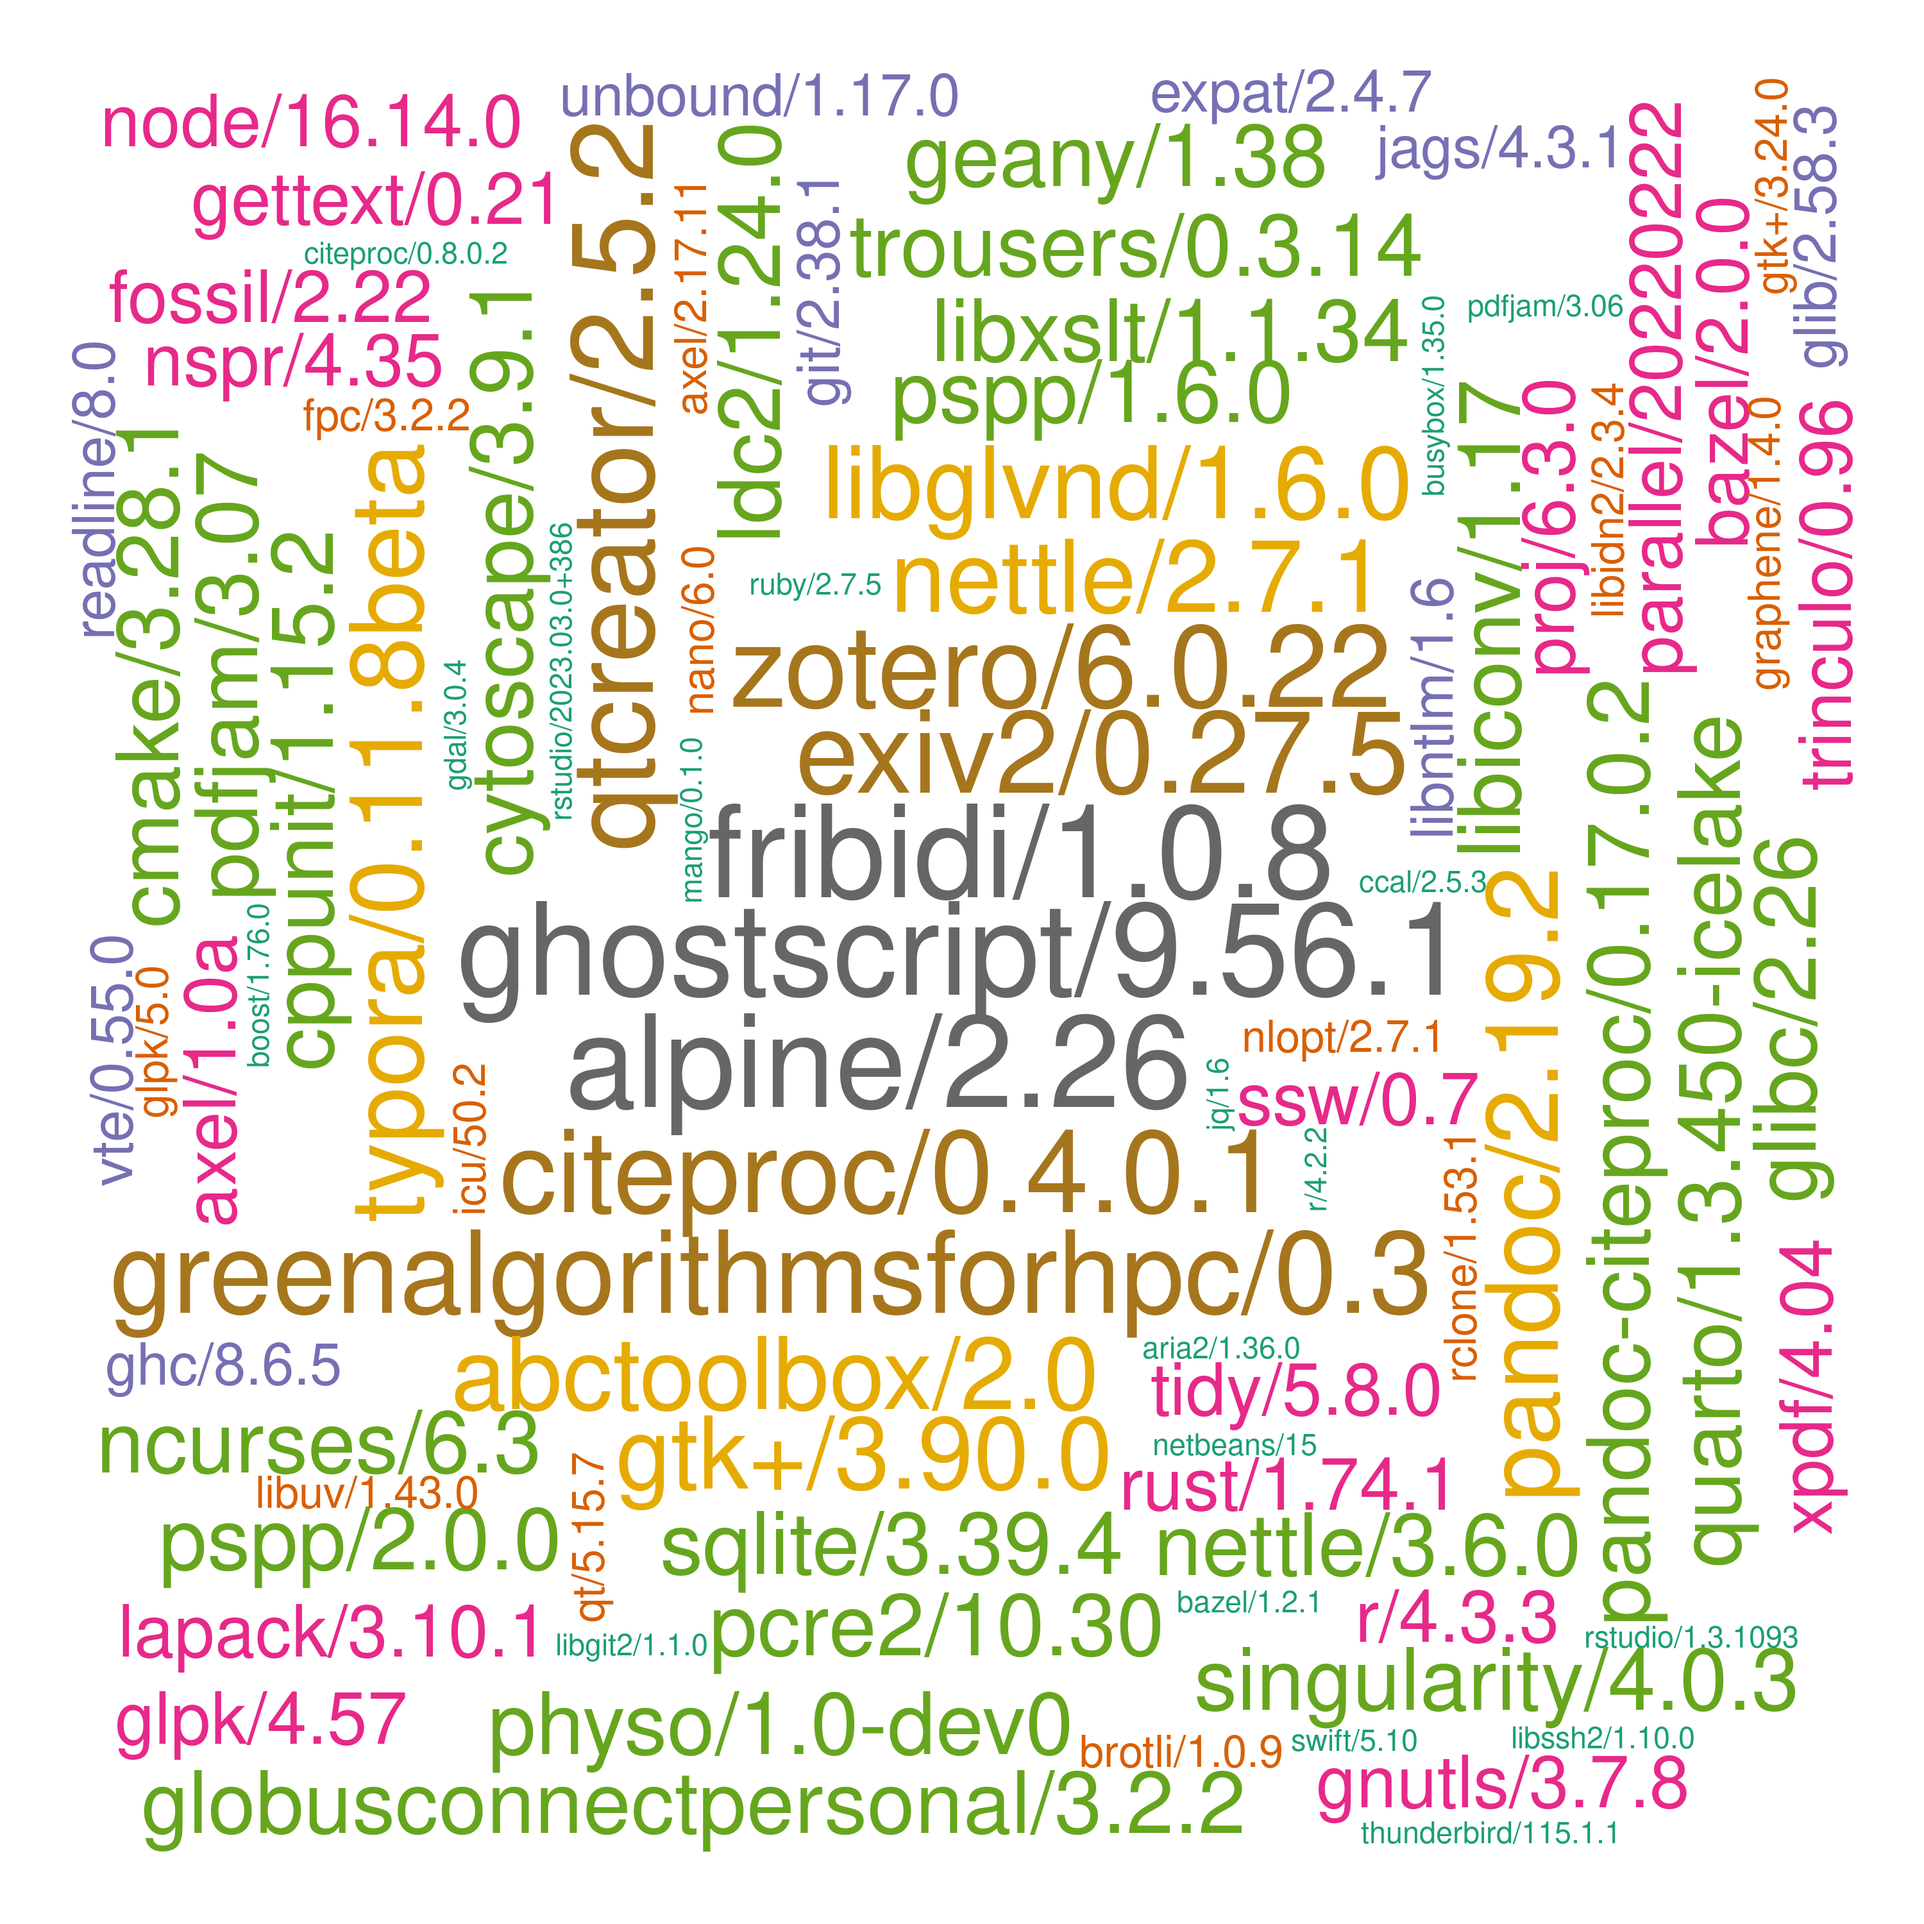
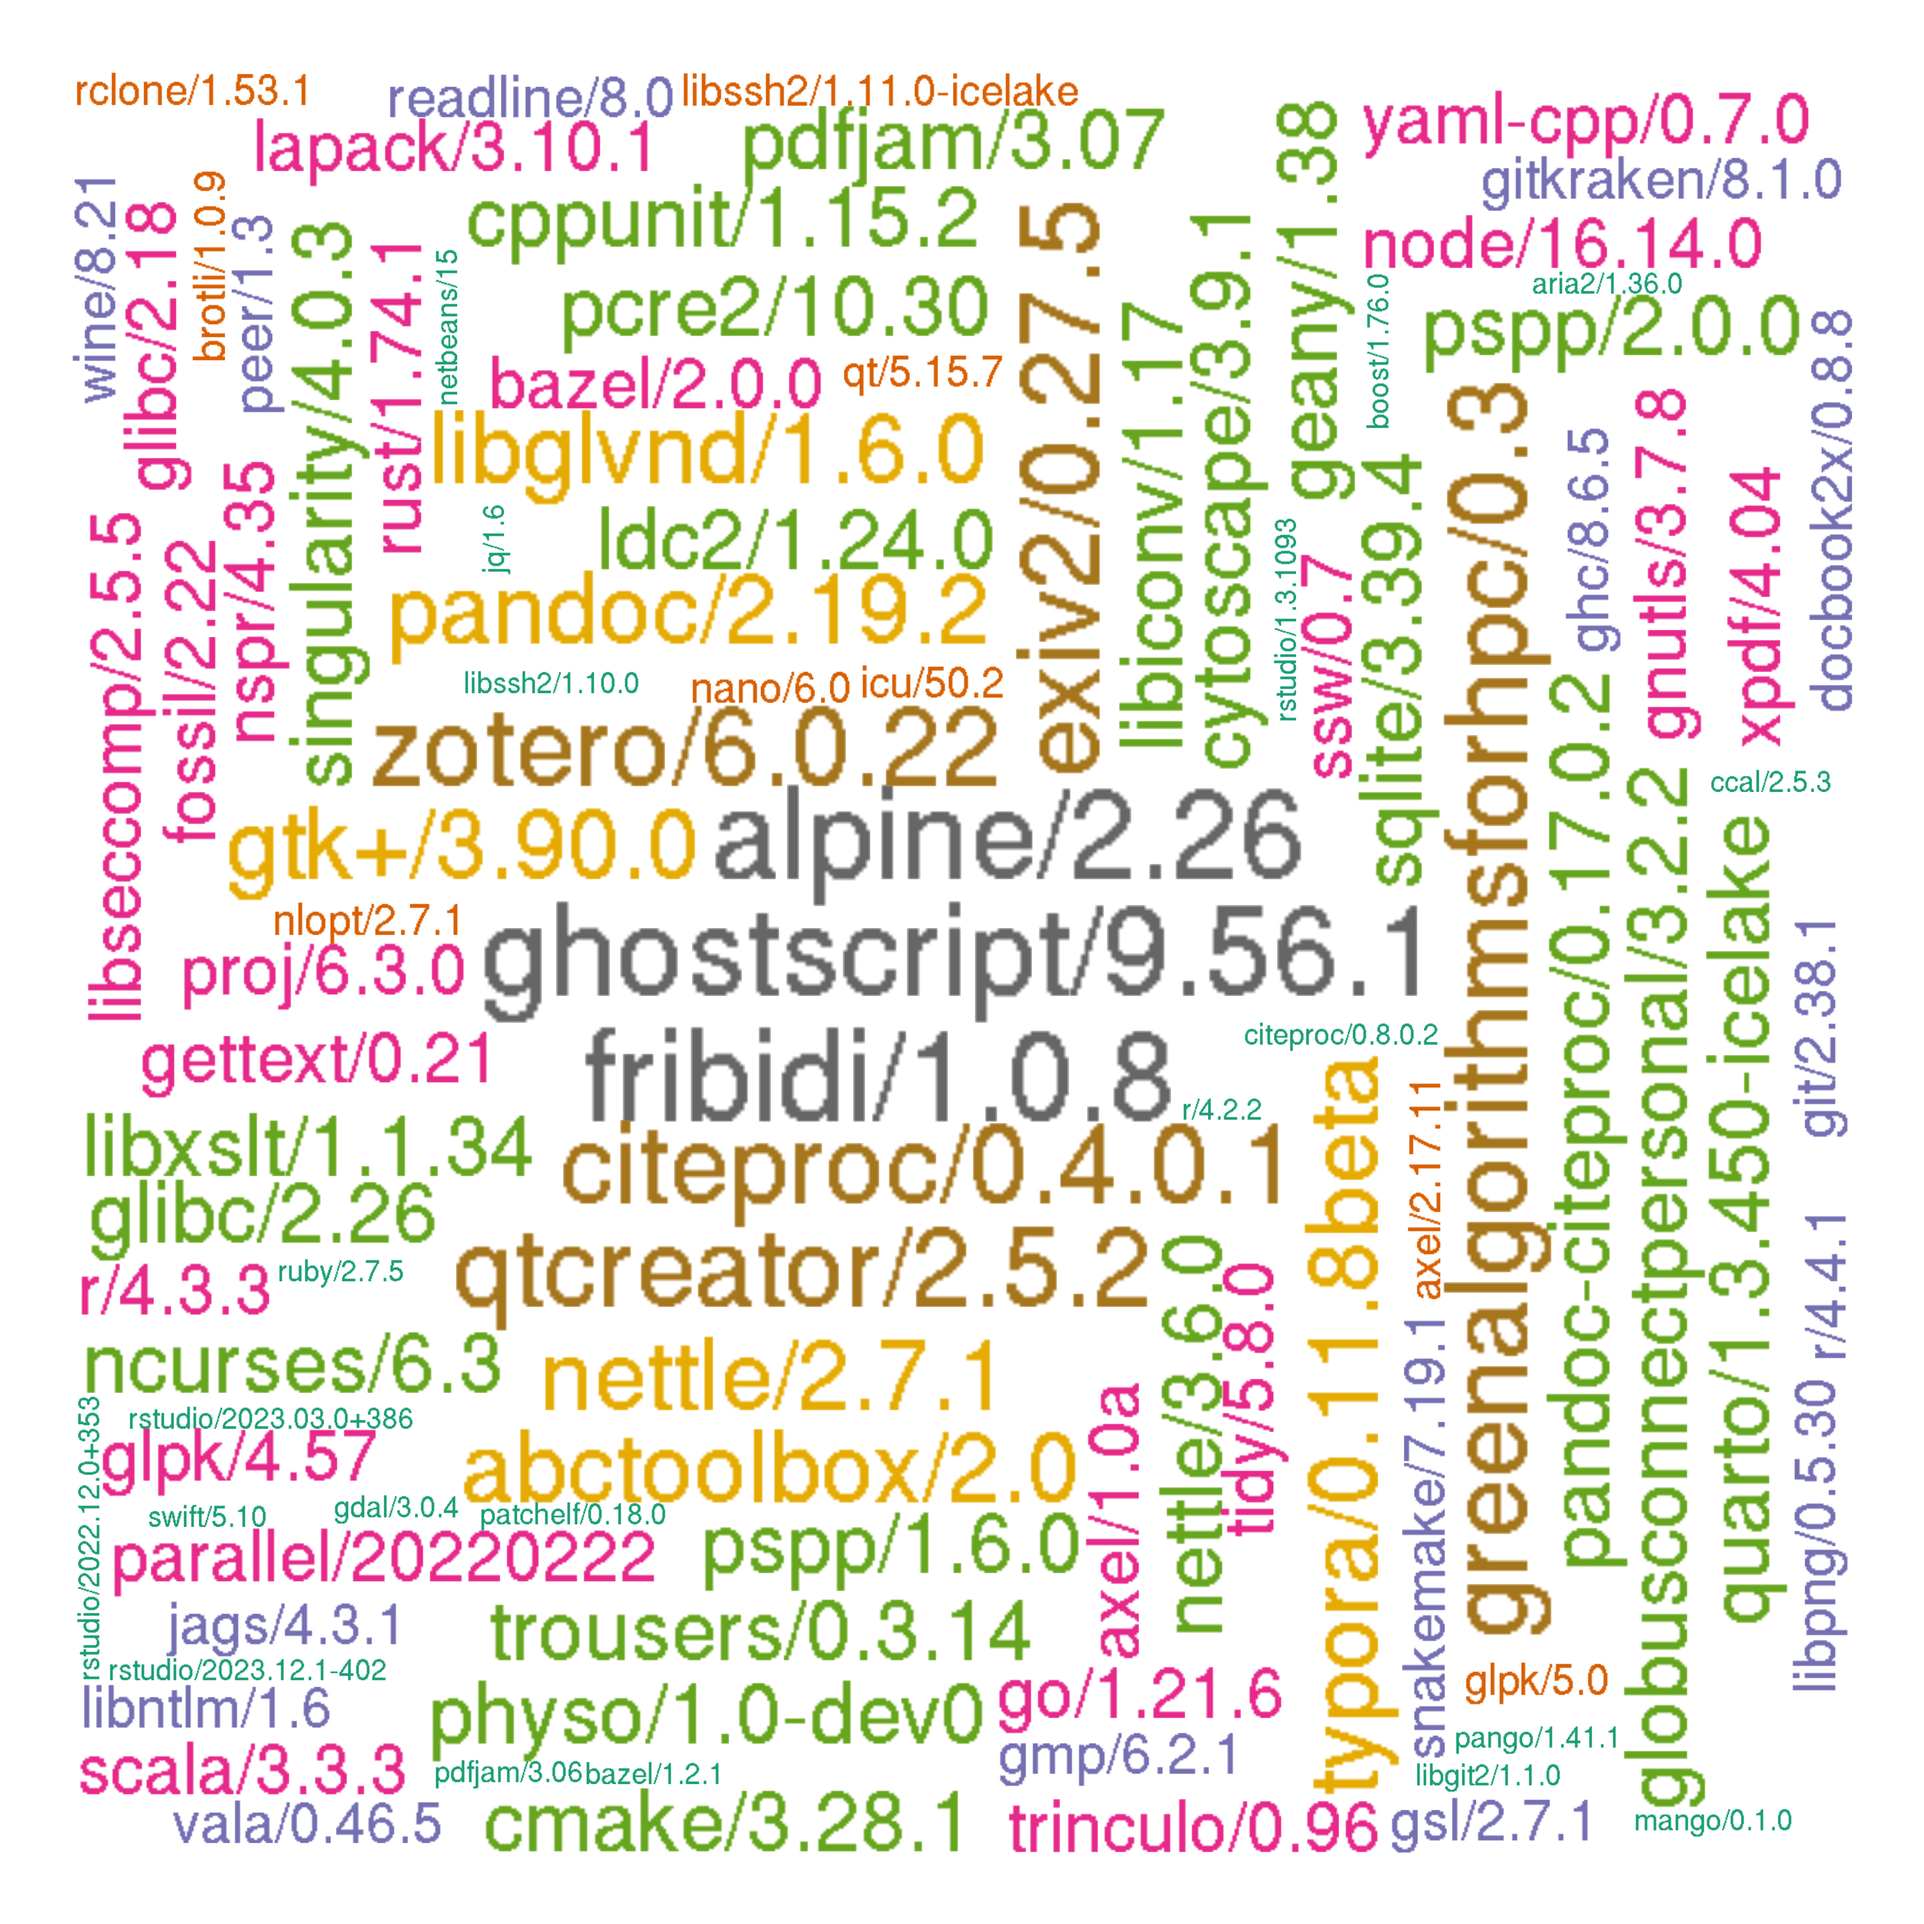
./

diff --git a/systems/ceuadmin.md b/systems/ceuadmin.md
@@ -8,7 +8,7 @@ The CEU software repository is here, **/usr/local/Cluster-Apps/ceuadmin/**.
 
 ![ceuadmin](ceuadmin.png)
 
-noting that the importance of software is purely random according to $$Poisson(N,\lambda)$$ where $$N=238$$, $$\lambda=3$$.
+noting that the importance of software is purely random according to $$Poisson(N,\lambda)$$ where $$N=239$$, $$\lambda=3$$.
 
 ## Entries
 
@@ -48,33 +48,33 @@ The current list is as follows,
 [121] "libxml2"               "libxslt"               "locuszoom"             "LVM2"
 [125] "MAGENTA"               "magma"                 "Mango"                 "Mega2"
 [129] "metal"                 "MetaMorpheus"          "MONSTER"               "MORGAN"
-[133] "MR-MEGA"               "MsCAVIAR"              "nano"                  "ncbi-vdb"
-[137] "ncurses"               "netbeans"              "nettle"                "nextflow"
-[141] "nlopt"                 "NLopt"                 "node"                  "nspr"
-[145] "oniguruma"             "openjdk"               "OpenMS"                "openssh"
-[149] "openssl"               "osca"                  "p7zip-zstd"            "PAINTOR"
-[153] "pandoc"                "pandoc-citeproc"       "pango"                 "parallel"
-[157] "Pascal"                "patchelf"              "pcre2"                 "pdf2djvu"
-[161] "pdfjam"                "peer"                  "pgsc_calc"             "phenoscanner"
-[165] "PhySO"                 "picard"                "plink"                 "plink-bgi"
-[169] "plinkseq"              "PoGo"                  "polyphen"              "poppler"
-[173] "popt"                  "proj"                  "PRSice"                "pspp"
-[177] "pulsar"                "PWCoCo"                "pwiz"                  "qctool"
-[181] "qpdf"                  "qt"                    "qtcreator"             "QTLtools"
-[185] "quarto"                "quicktest"             "R"                     "raremetal"
-[189] "rclone"                "readline"              "regenie"               "regtools"
-[193] "RHHsoftware"           "rst2pdf"               "rstudio"               "rtmpdump"
-[197] "ruby"                  "rust"                  "samtools"              "Scala"
-[201] "seqkit"                "shapeit"               "singularity"           "SMR"
-[205] "snakemake"             "SNP2HLA"               "snptest"               "spread-sheet-widget"
-[209] "spyder"                "sqlite"                "sra-tools"             "ssw"
-[213] "STAR"                  "stata"                 "SurvivalAnalysis"      "SurvivalKit"
-[217] "Swift"                 "tabix"                 "tatami"                "thunderbird"
-[221] "tidy"                  "trinculo"              "trousers"              "Typora"
-[225] "unbound"               "vala"                  "VarScan"               "vcftools"
-[229] "VEGAS2"                "verifyBamID"           "VSCode"                "VSCodium"
-[233] "vte"                   "wine"                  "xpdf"                  "yaml-cpp"
-[237] "Zotero"                "zstd"
+[133] "MR-MEGA"               "MsCAVIAR"              "msms"                  "nano"
+[137] "ncbi-vdb"              "ncurses"               "netbeans"              "nettle"
+[141] "nextflow"              "nlopt"                 "NLopt"                 "node"
+[145] "nspr"                  "oniguruma"             "openjdk"               "OpenMS"
+[149] "openssh"               "openssl"               "osca"                  "p7zip-zstd"
+[153] "PAINTOR"               "pandoc"                "pandoc-citeproc"       "pango"
+[157] "parallel"              "Pascal"                "patchelf"              "pcre2"
+[161] "pdf2djvu"              "pdfjam"                "peer"                  "pgsc_calc"
+[165] "phenoscanner"          "PhySO"                 "picard"                "plink"
+[169] "plink-bgi"             "plinkseq"              "PoGo"                  "polyphen"
+[173] "poppler"               "popt"                  "proj"                  "PRSice"
+[177] "pspp"                  "pulsar"                "PWCoCo"                "pwiz"
+[181] "qctool"                "qpdf"                  "qt"                    "qtcreator"
+[185] "QTLtools"              "quarto"                "quicktest"             "R"
+[189] "raremetal"             "rclone"                "readline"              "regenie"
+[193] "regtools"              "RHHsoftware"           "rst2pdf"               "rstudio"
+[197] "rtmpdump"              "ruby"                  "rust"                  "samtools"
+[201] "Scala"                 "seqkit"                "shapeit"               "singularity"
+[205] "SMR"                   "snakemake"             "SNP2HLA"               "snptest"
+[209] "spread-sheet-widget"   "spyder"                "sqlite"                "sra-tools"
+[213] "ssw"                   "STAR"                  "stata"                 "SurvivalAnalysis"
+[217] "SurvivalKit"           "Swift"                 "tabix"                 "tatami"
+[221] "thunderbird"           "tidy"                  "trinculo"              "trousers"
+[225] "Typora"                "unbound"               "vala"                  "VarScan"
+[229] "vcftools"              "VEGAS2"                "verifyBamID"           "VSCode"
+[233] "VSCodium"              "vte"                   "wine"                  "xpdf"
+[237] "yaml-cpp"              "Zotero"                "zstd"
 ```
 
 These are wrapped up as :star::star::star: **[modules](https://modules.readthedocs.io/en/latest/index.html)** :star::star::star:.
@@ -330,7 +330,7 @@ Further information is avaiiable from **/usr/local/Cluster-Apps/ceuadmin/doc/ceu
     | 2024-06-11 | seqkit/2.8.2                | Proteomics          |
     | ""         | FlashLFQ/1.2.6              | Proteomics          |
     | ""         | MetaMorpheus/1.0.5          | Proteomics          |
-
+    | 2024-06-25 | msms/3.2rc-b163             | Genetics            |
 
     \* CEU or approved users only.
 

diff --git a/systems/setup.md b/systems/setup.md
@@ -286,6 +286,7 @@ All entries are ordered chronologically.
 | ""          | FlashLFQ/1.2.6                   | Proteomics[^FlashLFQ]|
 | ""          | MetaMorpheus/1.0.5               | Proteomics           |
 | 2024-06-14  | R/4.4.1                          | Generic              |
+| 2024-06-25  | msms/3.2rc-b163                  | Genetics             |
 
 \* CEU or approved users only.
 
